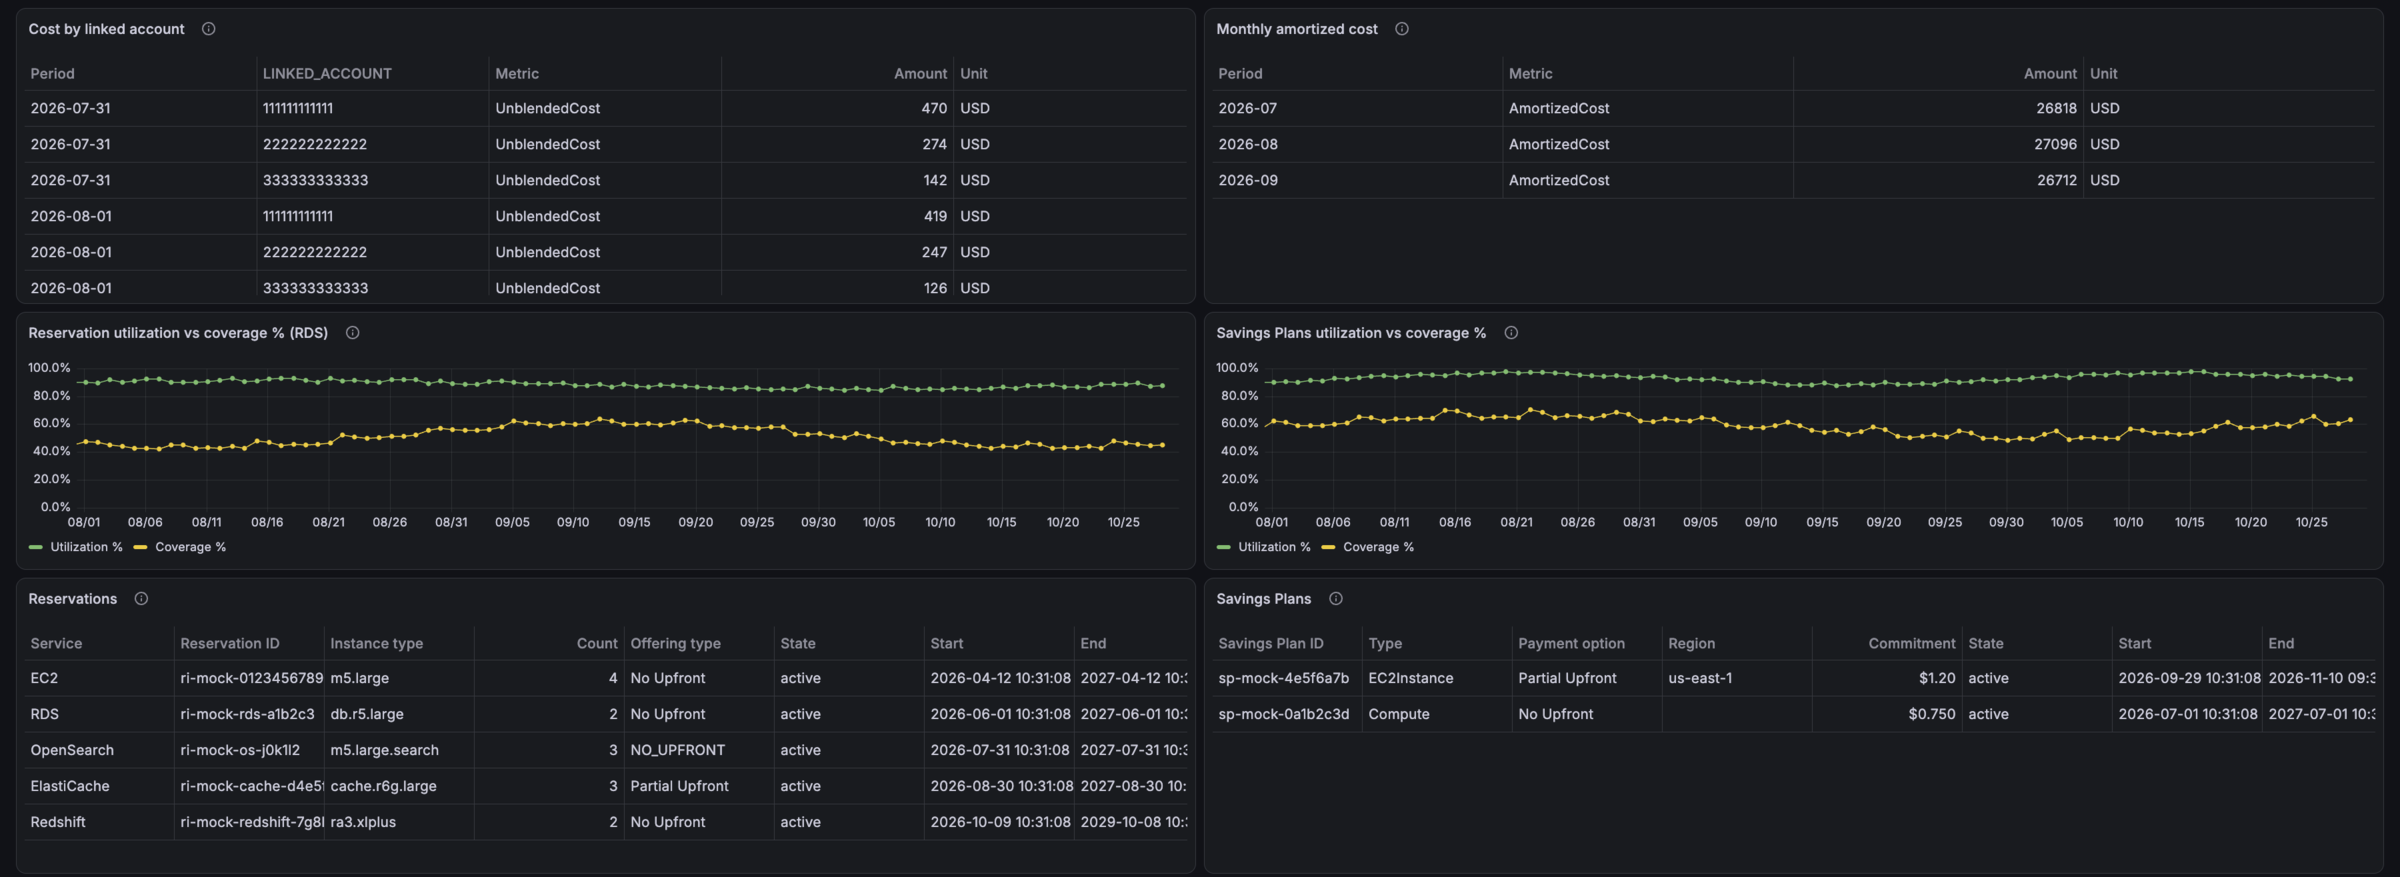
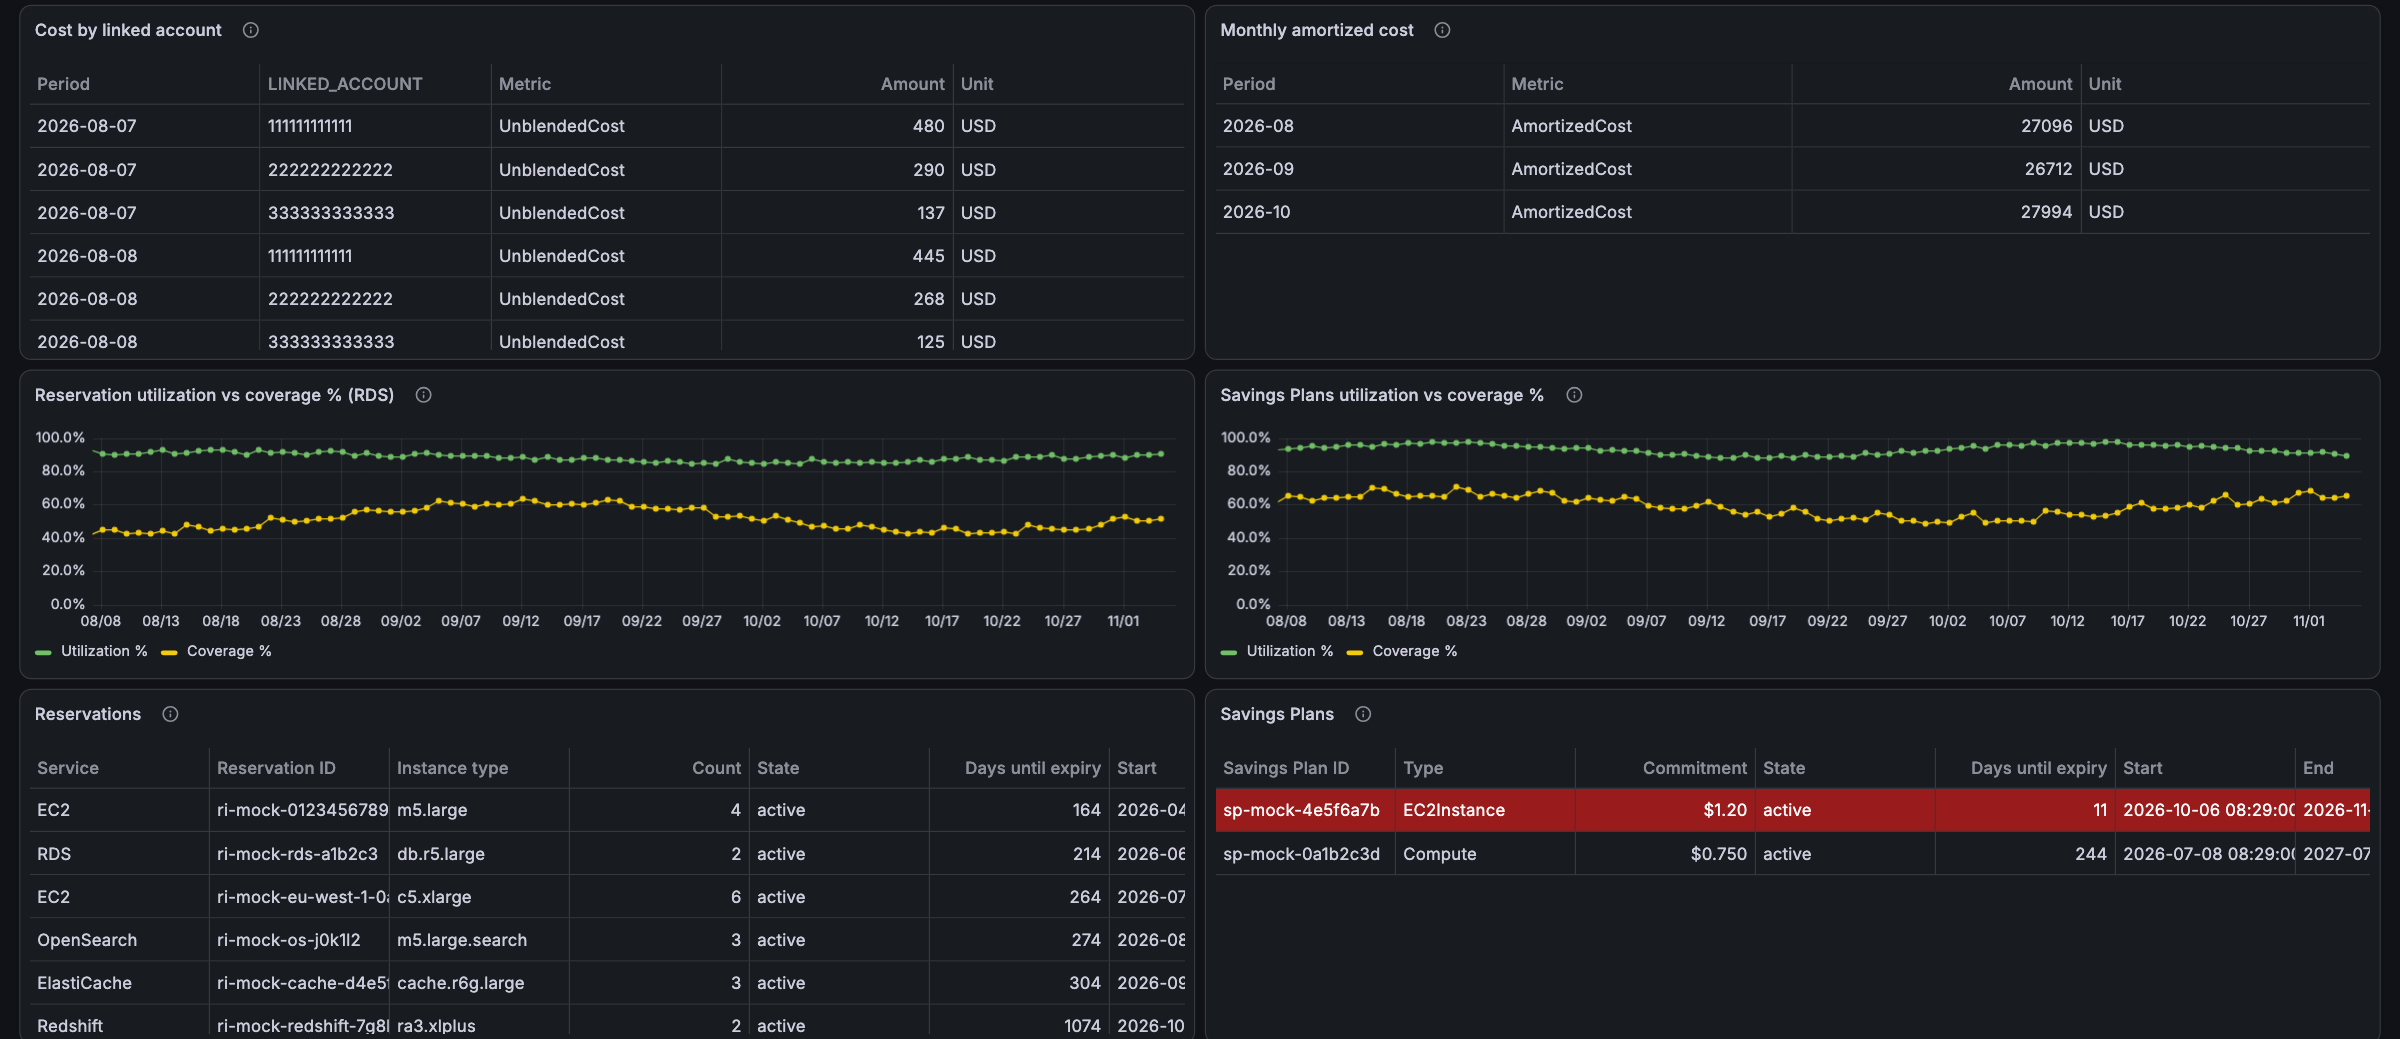
Sync the plugin catalog copy of the Reservations/Savings Plans screenshot
src/img mirrors docs/screenshots (plugin.json ships src/img). The last
screenshot refresh only updated docs/screenshots. Note the two-copy rule in
the dashboard guide.

diff --git a/docs/agent-dashboard-guide.md b/docs/agent-dashboard-guide.md
@@ -55,6 +55,14 @@ this plugin's `pluginId`) and `__requires` (this datasource plus every panel
 type used and the Grafana version), and point every panel/target
 `datasource.uid` at `"${DS_AWS_COST_EXPLORER}"` instead of a real uid.
 
+## Screenshots live in two places
+
+`docs/screenshots/*.png` is what the README shows; `src/img/*.png` is what
+`src/plugin.json` ships to the plugin catalog. They are meant to be
+byte-identical copies, so whenever you recapture or edit one, copy it to the
+other too (`cp docs/screenshots/<name>.png src/img/`). Capture against the
+**Mock data** auth mode so no real account data ends up in a screenshot.
+
 ## Before committing or opening a PR
 
 CI's "Build, lint and unit tests" job runs `npm run format:check`, which
